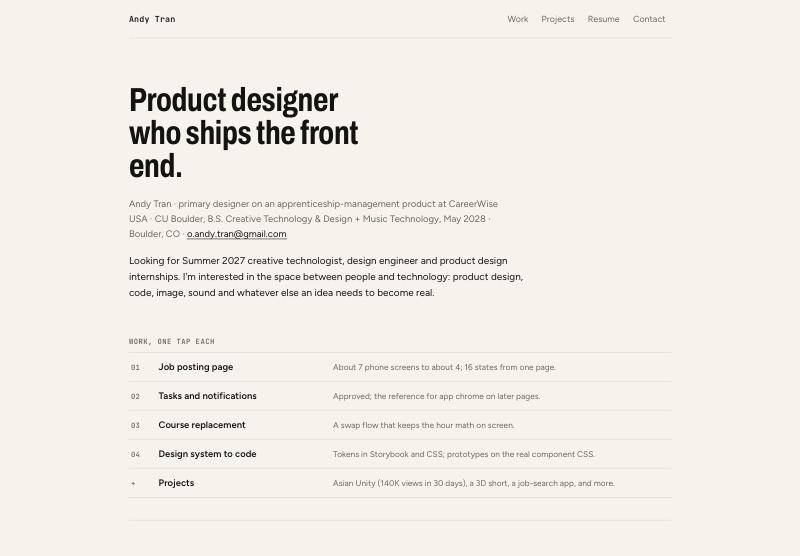
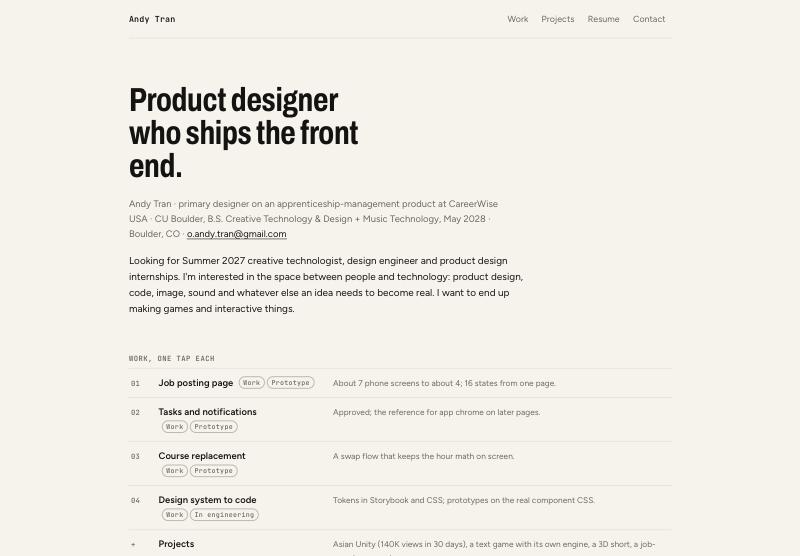
Add the Tomorrow text game as a project card and one sentence of direction in the intro

diff --git a/index.html b/index.html
@@ -30,7 +30,7 @@
       <section class="intro" aria-labelledby="intro-h">
         <h1 id="intro-h">Product designer who ships the front end.</h1>
         <p class="meta">Andy Tran · primary designer on an apprenticeship-management product at CareerWise USA · CU Boulder, B.S. Creative Technology &amp; Design + Music Technology, May 2028 · Boulder, CO · <a href="mailto:o.andy.tran@gmail.com">o.andy.tran@gmail.com</a></p>
-        <p class="lede-intro">Looking for Summer 2027 creative technologist, design engineer and product design internships. I'm interested in the space between people and technology: product design, code, image, sound and whatever else an idea needs to become real.</p>
+        <p class="lede-intro">Looking for Summer 2027 creative technologist, design engineer and product design internships. I'm interested in the space between people and technology: product design, code, image, sound and whatever else an idea needs to become real. I want to end up making games and interactive things.</p>
       </section>
 
       <nav class="index" aria-labelledby="index-h">
@@ -40,7 +40,7 @@
           <li><a href="#tasks"><span class="n">02</span><span class="t">Tasks and notifications <span class="tags"><span class="tag">Work</span><span class="tag">Prototype</span></span></span><span class="d">Approved; the reference for app chrome on later pages.</span></a></li>
           <li><a href="#course-replacement"><span class="n">03</span><span class="t">Course replacement <span class="tags"><span class="tag">Work</span><span class="tag">Prototype</span></span></span><span class="d">A swap flow that keeps the hour math on screen.</span></a></li>
           <li><a href="#design-system"><span class="n">04</span><span class="t">Design system to code <span class="tags"><span class="tag">Work</span><span class="tag">In engineering</span></span></span><span class="d">Tokens in Storybook and CSS; prototypes on the real component CSS.</span></a></li>
-          <li><a href="#projects"><span class="n">+</span><span class="t">Projects</span><span class="d">Asian Unity (140K views in 30 days), a 3D short, a job-search app, and more.</span></a></li>
+          <li><a href="#projects"><span class="n">+</span><span class="t">Projects</span><span class="d">Asian Unity (140K views in 30 days), a text game with its own engine, a 3D short, a job-search app, and more.</span></a></li>
         </ol>
       </nav>
 
@@ -225,6 +225,20 @@
         <h2 id="proj-h">Projects</h2>
         <p class="sub">Image, sound, motion, and one app</p>
         <div class="cards">
+
+          <article class="card" id="tomorrow" aria-labelledby="tmr-h">
+            <p class="label"><span>Tomorrow · text game · CU Boulder · Oct 2026</span><span class="tags"><span class="tag">Class</span><span class="tag">Shipped</span></span></p>
+            <h3 id="tmr-h"><a href="#tomorrow">A short text game about one day, regret and letting go</a></h3>
+            <figure>
+              <img src="assets/tomorrow-decision-map.png" width="820" height="1100" alt="A page of the generated decision map: the 7:14 AM moment, with each thing the player can type, what Nell learns from it, and how the day ends, laid out as a text map of every path through the game." loading="lazy">
+              <figcaption>The generated decision map: every path through the game, moment by moment. It doubles as a small data visualization.</figcaption>
+            </figure>
+            <p>You relive one Tuesday. It stops at seven moments where Nell could have done something different: one change per day, the day resets, what she learned survives. The engine is hand-built: the story is data in one file, the rules are a few small classes, a script generates the decision map, and a test plays the whole game without a browser. Sixteen simulated playthroughs changed the story, from the safety replies to a sixth fix.</p>
+            <ul class="links">
+              <li><a href="/tomorrow/">Play it</a></li>
+            </ul>
+            <!-- Andy: add the itch.io page link here; no URL for it was in the README or the vault. The vault's Interactive Fiction Game note calls this a course project, so the kind tag is Class, not Personal. -->
+          </article>
 
           <article class="card" id="asian-unity" aria-labelledby="au-h">
             <p class="label"><span>Asian Unity at CU Boulder · Co-PR and Creative Lead · 2026</span><span class="tags"><span class="tag">Club</span><span class="tag">Shipped</span></span></p>

diff --git a/style.css b/style.css
@@ -301,7 +301,7 @@ details.more > .cols { margin-bottom: 8px; }
 @media (min-width: 720px) {
   .facts { grid-template-columns: 1fr 1fr; }
   .study .hero img { max-height: 640px; }
-  .cards { grid-template-columns: 1fr 1fr 1fr; gap: 24px; }
+  .cards { grid-template-columns: 1fr 1fr; gap: 24px; }
   .card img { max-height: 360px; }
 }
 .cards > *, .card > * { min-width: 0; }
